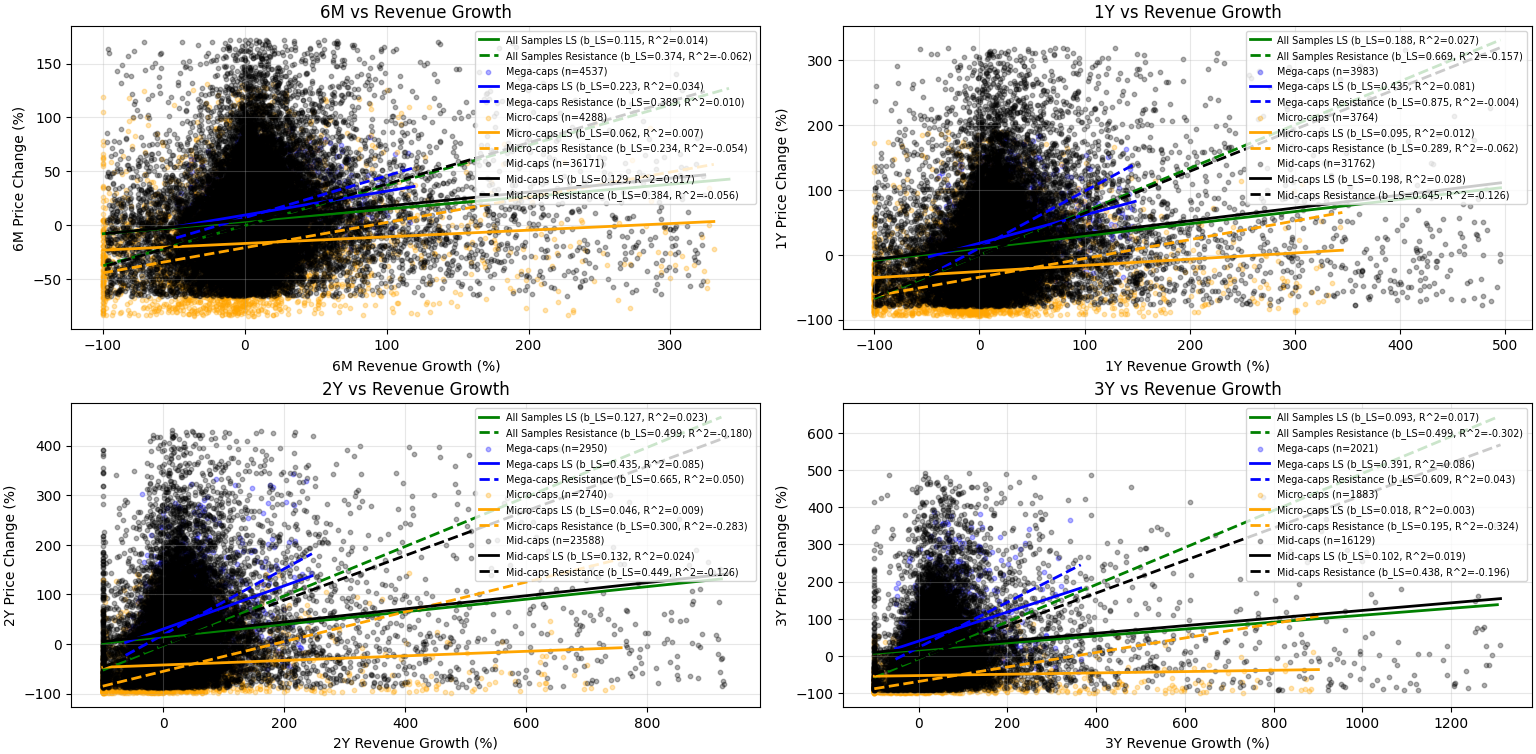
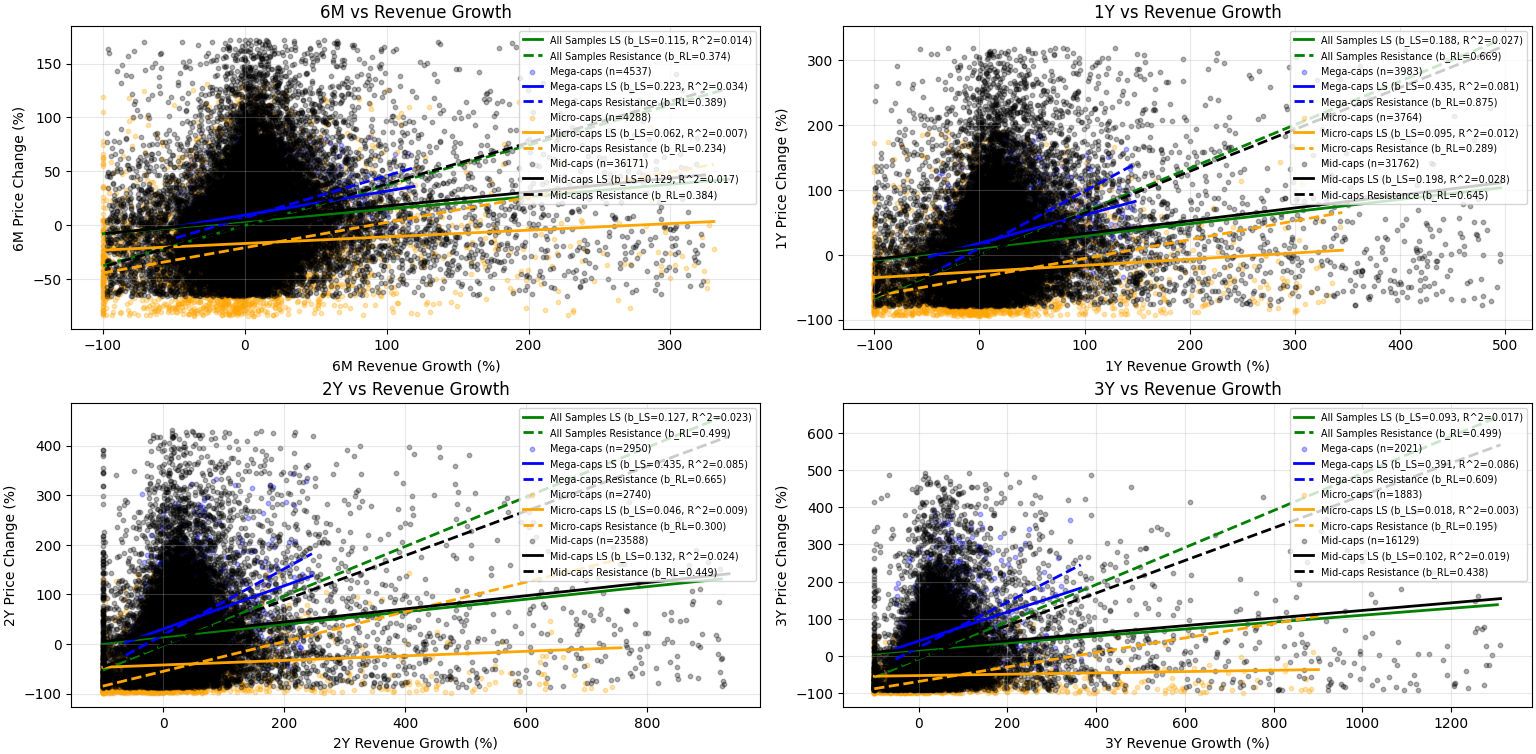
update graphs

diff --git a/linear_regression/lr_by_market_cap_robust.py b/linear_regression/lr_by_market_cap_robust.py
@@ -322,9 +322,9 @@ def enhanced_regression_analysis(x, y, p_low=0.9, p_high=99.1):
 def format_results_table(results_dict, horizon_label):
     """Print a nicely formatted table of results"""
     print(f"\n{'='*80}\nREGRESSION RESULTS FOR {horizon_label}\n{'='*80}")
-    
-    headers = ["Tier", "N", "LS b_LS", "R²", "RSS", "Resistance b_LS", "Resistance RSS", "p-value", "t-stat", "t-crit", "SE", "Reject H0", "Pearson Corr"]
-    print(f"{headers[0]:<12} {headers[1]:<6} {headers[2]:<10} {headers[3]:<8} {headers[4]:<12} {headers[5]:<10} {headers[6]:<8} {headers[7]:<12} {headers[8]:<10} {headers[9]:<8} {headers[10]:<8} {headers[11]:<10} {headers[12]:<10} {headers[13]:<14}")
+
+    headers = ["Tier", "N", "LS b_LS", "R²", "RSS", "Resistance b_RL", "Resistance RSS", "p-value", "t-stat", "t-crit", "SE", "Reject H0", "Pearson Corr"]
+    print(f"{headers[0]:<12} {headers[1]:<6} {headers[2]:<10} {headers[3]:<8} {headers[4]:<12} {headers[5]:<10} {headers[6]:<8} {headers[7]:<12} {headers[8]:<10} {headers[9]:<8} {headers[10]:<8} {headers[11]:<10} {headers[12]:<14}")
     print("-" * 150)
 
     for name, r in results_dict.items():
@@ -408,7 +408,7 @@ def create_regression_plot(results, horizon_label, analysis_mode_name, x_axis_la
         if args.show_robust:
             robust_fit_y = r["robust_intercept"] + r["robust_slope"] * fit_x
             ax.plot(fit_x, robust_fit_y, color=color, lw=2, linestyle='--',
-                    label=f"{name} Resistance (b_RL={r['robust_slope']:.3f}, R²={r['robust_r2']:.3f})")
+                    label=f"{name} Resistance (b_RL={r['robust_slope']:.3f})")
 
     # Set labels and title
     title = f"{horizon_label} Price Change vs {analysis_mode_name} by Market Cap Tier"
@@ -458,7 +458,7 @@ def plot_single_subplot(ax, results, horizon_label, analysis_mode_name, x_axis_l
         if args.show_robust:
             robust_fit_y = r["robust_intercept"] + r["robust_slope"] * fit_x
             ax.plot(fit_x, robust_fit_y, color=color, 
-                   lw=2, linestyle='--', label=f"{name} Resistance (b_LS={r['robust_slope']:.3f}, R^2={r['robust_r2']:.3f})")
+                   lw=2, linestyle='--', label=f"{name} Resistance (b_RL={r['robust_slope']:.3f})")
 
     ax.set_title(f"{horizon_label} vs {analysis_mode_name}" + 
                 (f" ({index_filter})" if index_filter else ""))
